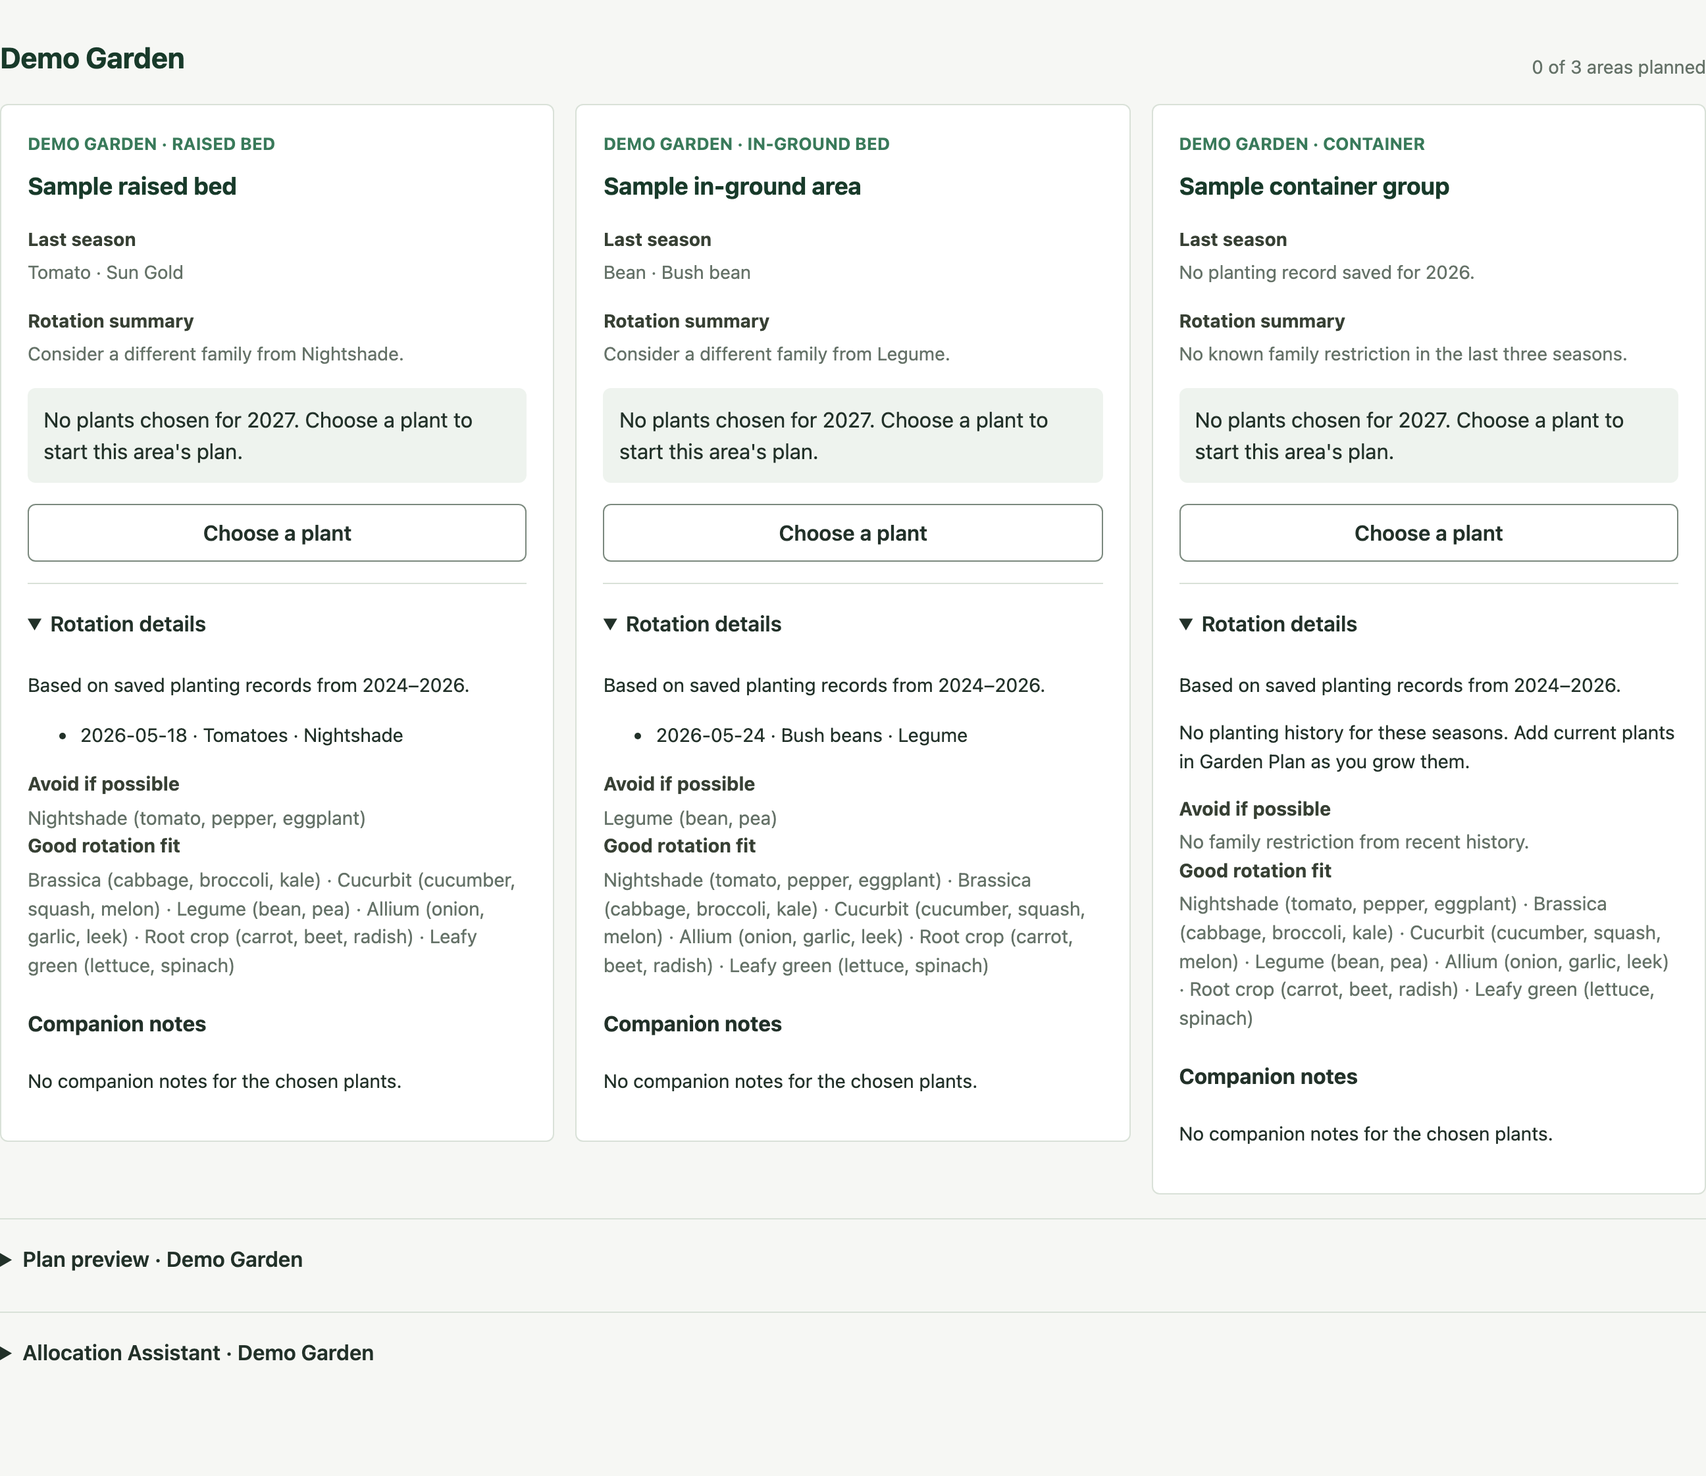
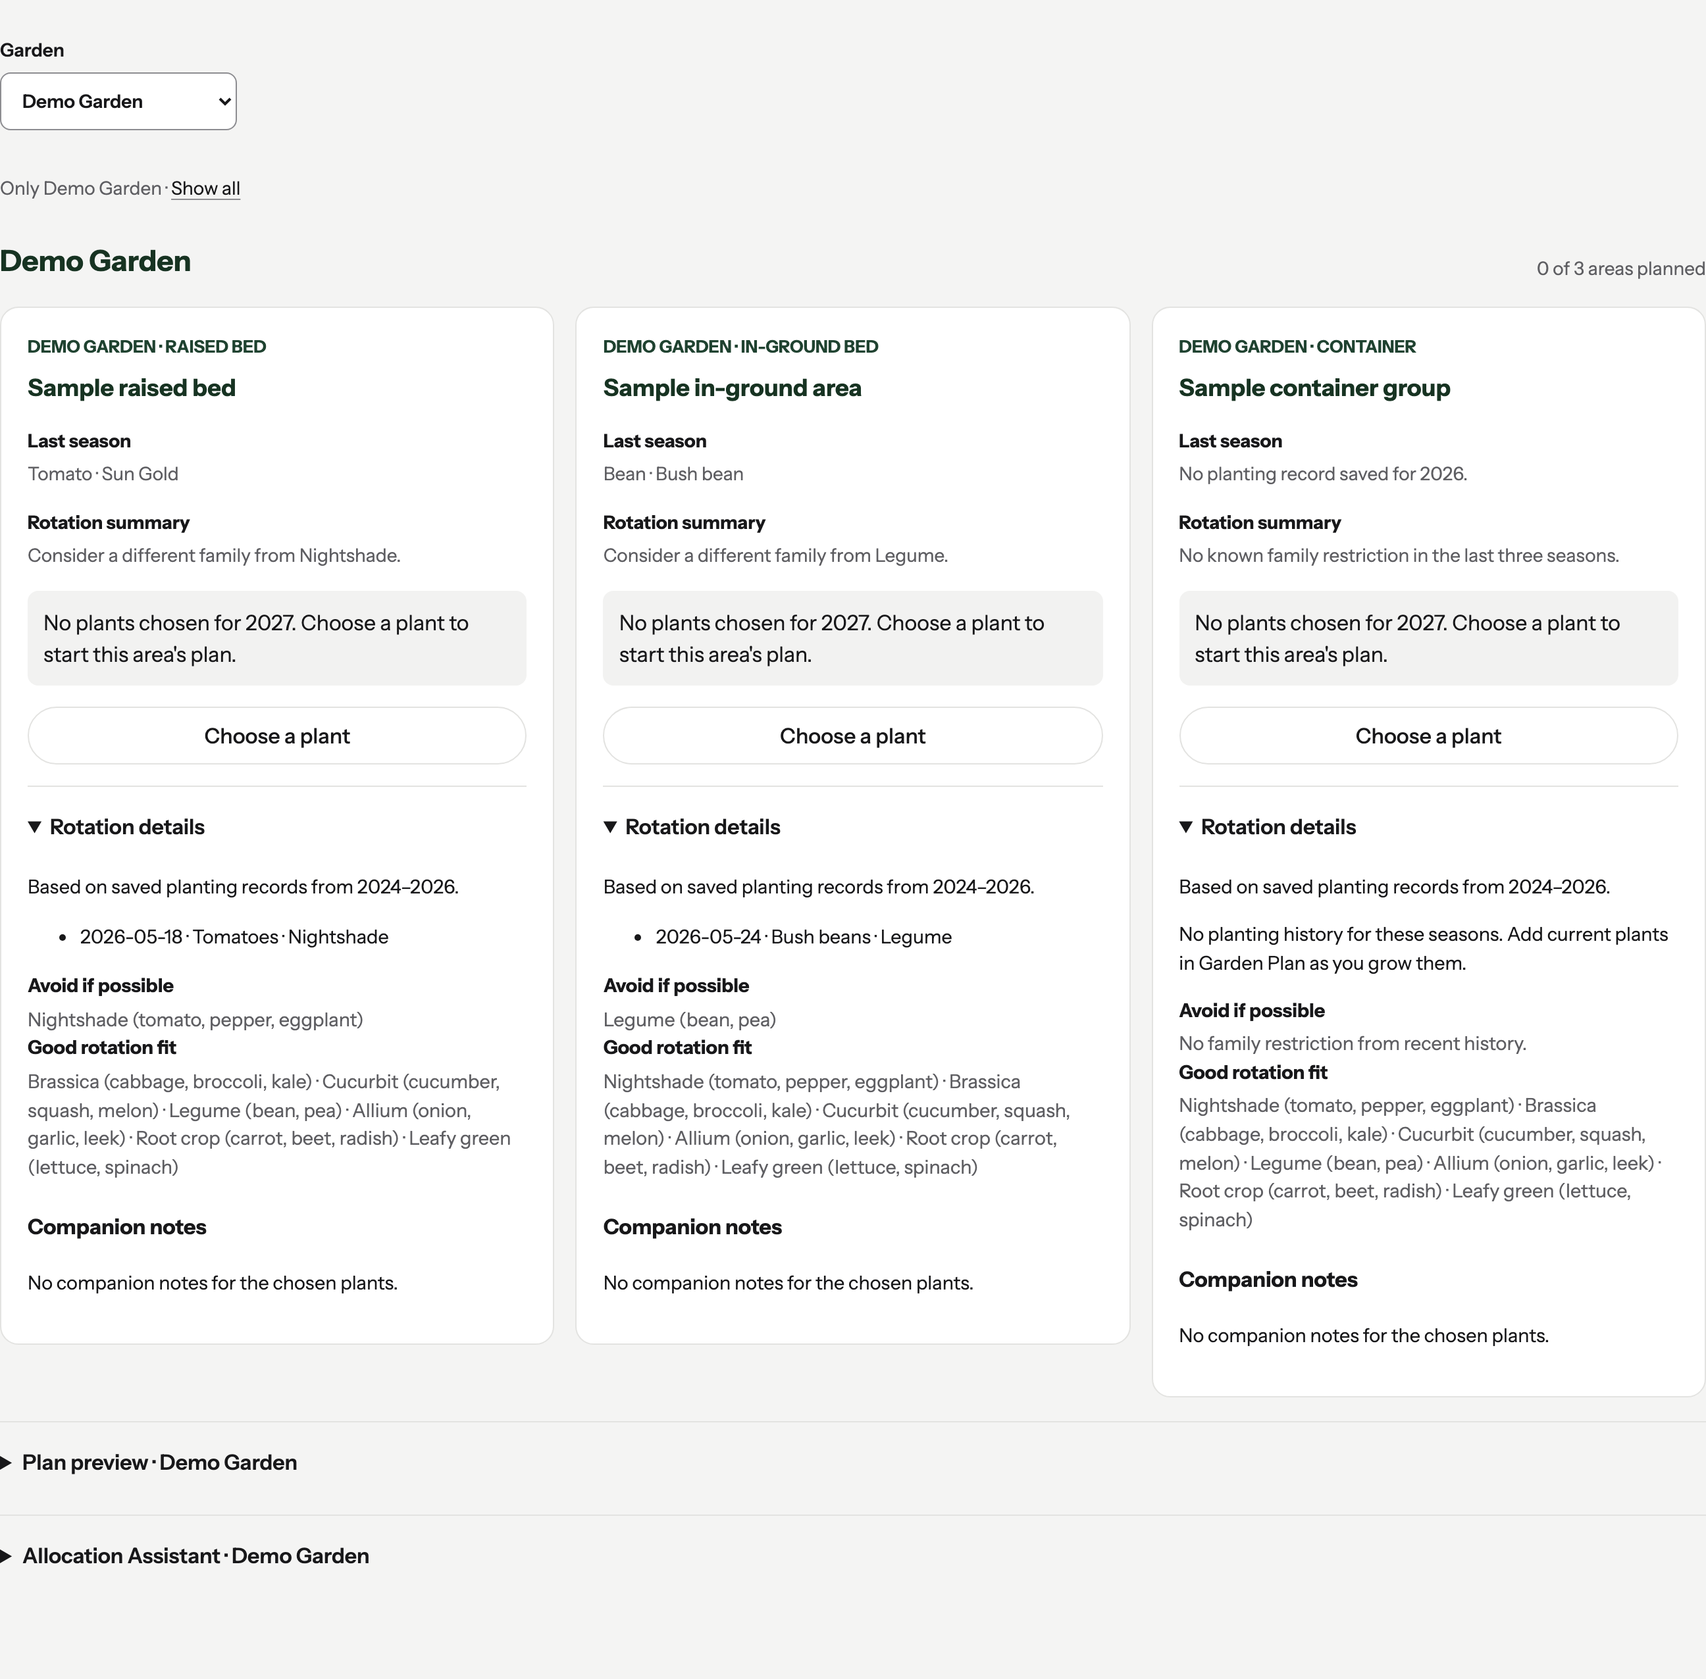
test: accept the site redesign at four sizes and finish its docs
Adds a landing-to-note browser journey at 1440, 768, and 390 px and at
200% zoom, refreshes the README screenshots, and marks ADR-0073 as
implemented (S1-S7) with the superseded records in the decision index.

diff --git a/e2e/site-journey.spec.ts b/e2e/site-journey.spec.ts
@@ -1,0 +1,85 @@
+import { expect, test, type Page, type TestInfo } from "@playwright/test";
+import { todayDate } from "../src/lib/gardenWorkspace";
+import { workspaceHome } from "./workspace";
+
+/**
+ * ADR-0073 S7: the visitor journey from the landing page into the app, at three widths and
+ * at a simulated 200% browser zoom (a 1440 × 900 window at zoom 200% lays out at 720 × 450 CSS
+ * pixels with a device pixel ratio of 2). Every step is screenshotted into this test's output
+ * folder under test-results/ and checked for horizontal scroll.
+ */
+const sizes = [
+  { name: "1440", width: 1440, height: 900, scale: 1 },
+  { name: "768", width: 768, height: 1024, scale: 1 },
+  { name: "390", width: 390, height: 844, scale: 1 },
+  { name: "zoom-200", width: 720, height: 450, scale: 2 },
+];
+
+async function step(page: Page, testInfo: TestInfo, size: string, name: string) {
+  expect(await page.evaluate(() => document.documentElement.scrollWidth - innerWidth), `${name} scrolls sideways at ${size}`).toBeLessThanOrEqual(1);
+  await page.screenshot({ path: testInfo.outputPath(`${size}-${name}.png`) });
+}
+
+for (const size of sizes) {
+  test.describe(`at ${size.name}`, () => {
+    test.use({ viewport: { width: size.width, height: size.height }, deviceScaleFactor: size.scale });
+
+    test("a visitor goes from the landing page to the Garden Plan and records a note", async ({ page }, testInfo) => {
+      test.setTimeout(120_000);
+      // The Next.js development badge is not part of the product.
+      await page.addInitScript(() => {
+        addEventListener("DOMContentLoaded", () => {
+          const style = document.createElement("style");
+          style.textContent = "nextjs-portal { display: none !important; }";
+          document.head.append(style);
+        });
+      });
+      // Single-record note drafting with a mocked extraction; the workspace uses the isolated test backend.
+      await page.route("**/runtime-config", (route) => route.fulfill({ json: { portfolioDemo: false } }));
+      await page.route("**/ai/**", (route) => route.fulfill({ json: { kind: "completed", type: "watering", date: todayDate(), note: "Watered the raised bed", targetScope: "garden", reviewNotes: [] } }));
+
+      // 1. Landing page.
+      await page.goto("/");
+      await expect(page.getByRole("heading", { level: 1 })).toBeVisible();
+      await step(page, testInfo, size.name, "1-landing");
+
+      // 2. Into the app.
+      await page.getByRole("link", { name: "Open the app" }).click();
+      await expect(page).toHaveURL(workspaceHome);
+      await expect(page.getByRole("heading", { name: "Gardens", level: 1 })).toBeVisible();
+      await page.getByRole("button", { name: "Load demo garden" }).click();
+      await expect(page.getByRole("link", { name: "Open Demo Garden" })).toBeVisible();
+      await expect(page.getByText("All changes saved", { exact: true }).first()).toBeAttached();
+      await step(page, testInfo, size.name, "2-gardens");
+
+      // 3. The Garden Plan canvas.
+      await page.getByRole("link", { name: "Open Demo Garden" }).click();
+      await expect(page).toHaveURL(/\/gardens\/demo-garden\/plan$/);
+      await expect(page.getByTestId("garden-plan-canvas")).toBeVisible();
+      await expect(page.getByTestId("garden-plan-canvas")).toHaveAttribute("data-zooming", "false");
+      await step(page, testInfo, size.name, "3-plan");
+
+      // 4. "+ Note" from the header, review the draft, and save it.
+      await page.getByRole("banner").getByRole("button", { name: "Note", exact: true }).click();
+      const dialog = page.getByRole("dialog", { name: "Garden Note" });
+      await expect(dialog).toBeVisible();
+      await dialog.getByLabel("Care note").fill("Watered the raised bed");
+      await dialog.getByLabel("Garden", { exact: true }).selectOption("demo-garden");
+      await step(page, testInfo, size.name, "4-note");
+      await dialog.getByRole("button", { name: "Create draft", exact: true }).click();
+      await expect(dialog.getByRole("heading", { name: "AI extracted draft" })).toBeVisible();
+      await step(page, testInfo, size.name, "5-draft");
+      await dialog.getByRole("button", { name: "Save to Care History" }).last().click();
+      await expect(dialog.getByText("Saved 1 record", { exact: true })).toBeVisible();
+      await expect(page.getByText("All changes saved", { exact: true }).first()).toBeAttached();
+      await step(page, testInfo, size.name, "6-saved");
+
+      // The record reached the backend.
+      const id = await page.evaluate(() => localStorage.getItem("sun-aware-garden-planner:server-workspace-id:v1"));
+      await expect.poll(async () => {
+        const workspace = await (await page.request.get(`http://127.0.0.1:8100/workspaces/${id}`)).json();
+        return workspace.gardens[0].careEvents.some((event: { note: string }) => event.note === "Watered the raised bed");
+      }).toBe(true);
+    });
+  });
+}

diff --git a/docs/decisions/README.md b/docs/decisions/README.md
@@ -105,17 +105,17 @@ changes, mark the old record as superseded and add a new record.
 | [ADR-0060](0060-offer-assisted-care-note-drafting-in-the-portfolio-demo.md) | Offer assisted care-note drafting in the portfolio demo | Accepted |
 | [ADR-0061](0061-prioritize-global-garden-notes-and-consistent-workflows.md) | Prioritize global AI garden notes, clear workspace scopes, and consistent feedback | Accepted for product direction; implementation pending |
 | [ADR-0062](0062-preserve-planting-area-editor-drafts.md) | Preserve planting-area property and plant-editor drafts | Accepted; amended for Garden Plan by ADR-0072 (G5) |
-| [ADR-0063](0063-use-workspace-routes-and-shared-session-state.md) | Use workspace routes and shared session state | Accepted; home route moved to `/gardens` by ADR-0073 (S1); garden subnavigation and "Back to gardens" superseded by ADR-0073 (S2); `/gardens/[gardenId]/care` and `/gardens/[gardenId]/season` redirect to the filtered `/care` and `/season` by ADR-0073 (S3) |
+| [ADR-0063](0063-use-workspace-routes-and-shared-session-state.md) | Use workspace routes and shared session state | Accepted; superseded in part by ADR-0073: the home route moved to `/gardens` (S1), the garden subnavigation and "Back to gardens" replaced by the L1 header and a breadcrumb (S2), and `/gardens/[gardenId]/care` and `/gardens/[gardenId]/season` redirect to the filtered `/care` and `/season` (S3) |
 | [ADR-0064](0064-separate-workspace-save-status-and-explicit-retries.md) | Separate workspace save status and explicit retries | Accepted |
 | [ADR-0065](0065-fit-metric-canvases-to-their-containers.md) | Fit metric canvases to their containers | Accepted |
 | [ADR-0066](0066-adapt-area-editing-to-available-space.md) | Adapt area editing to available space | Superseded in part by ADR-0072 (G3) |
-| [ADR-0067](0067-project-care-across-locations-with-explicit-ownership.md) | Project Care across locations with explicit ownership | Accepted; the garden Care page and its "Applies to all gardens" section superseded by ADR-0073 (S3): a garden's care is global Care filtered to that location |
+| [ADR-0067](0067-project-care-across-locations-with-explicit-ownership.md) | Project Care across locations with explicit ownership | Accepted; superseded in part by ADR-0073 (S3): the garden Care page and its "Applies to all gardens" section are replaced, and a garden's care is global Care filtered to that location |
 | [ADR-0068](0068-extract-bounded-workspace-care-note-batches.md) | Extract bounded workspace care-note batches | Accepted; real-model evaluation pending |
 | [ADR-0069](0069-open-garden-notes-in-place-from-overview.md) | Open Garden Notes in place from Overview | Accepted; entry superseded in part by ADR-0073 (S2): the header "+ Note" opens the dialog from any app page |
 | [ADR-0070](0070-preview-and-position-planting-areas-on-the-plan.md) | Preview and position planting areas on the plan | Superseded in part by ADR-0072 (G2, G3, G4) |
 | [ADR-0071](0071-recover-missing-workspaces-from-browser-copies.md) | Recover missing workspaces from browser copies | Accepted |
 | [ADR-0072](0072-use-a-single-plan-canvas-with-guided-setup.md) | Use a single plan canvas with guided setup | Accepted; implemented (G1–G7); the G1 presentation and the wide side column superseded in part by ADR-0073 (S4): a pale planting chart, and from 900 px the toolbar, zoom, legend, and area panel float over a full-width canvas |
-| [ADR-0073](0073-separate-the-landing-page-and-use-a-textured-deep-green-look.md) | Separate the landing page from the app and use a textured deep-green look | Accepted; S1–S6 implemented, S7 pending |
+| [ADR-0073](0073-separate-the-landing-page-and-use-a-textured-deep-green-look.md) | Separate the landing page from the app and use a textured deep-green look | Accepted; implemented (S1–S7); the landing showcases (S6b) are placeholders until their form is decided |
 
 ## Interview Use
 

diff --git a/docs/frontend-professionalization-progress.md b/docs/frontend-professionalization-progress.md
@@ -1030,3 +1030,33 @@ Phase G7 closes the single-canvas plan ([ADR-0072](decisions/0072-use-a-single-p
   line. `season-hierarchy.spec.ts` checks it at 390 and 1440 px.
 - ADR-0048 is marked as superseded in part (garden details apply without
   Save), and ADR-0052's Garden Plan amendment now covers G6.
+
+## Site redesign: landing page and app look (S1–S7)
+
+The site redesign ([ADR-0073](decisions/0073-separate-the-landing-page-and-use-a-textured-deep-green-look.md), [plan](site-redesign-plan.md)) splits the landing page from the app and restyles both.
+
+- S1 moves the app to `/gardens` under the `(app)` route group and adds a landing page at `/` under `(marketing)`.
+- S2 gives the app a textured deep-green header with the L1 modules, a breadcrumb with an "All gardens" button below L1, and a "+ Note" button that opens the Garden Note dialog from any app page.
+- S3 links a garden to its care and season plans as filtered L1 pages and redirects the old garden Care and Season routes.
+- S4 restyles the Garden Plan as a pale planting chart with crop-family colors and floating glass overlays from 900 px.
+- S5 restyles the remaining app pages with hue-free neutrals and the content green `#1F4230`; `e2e/app-pages-review.spec.ts` checks every L1 page against the allowed colors.
+- S6 builds the landing page: a WebGL2 hero and footer from real leaf photos, still-image fallbacks, and placeholders for the two feature showcases.
+
+## S7: Site redesign browser acceptance and documentation (2026-11-15)
+
+- `e2e/site-journey.spec.ts` runs one visitor journey at 1440, 768, and 390 px,
+  and at 720 × 450 px with device scale 2 (a 1440 × 900 window at 200% zoom).
+  The journey opens the landing page, enters the app with "Open the app",
+  loads the demo garden, opens the Garden Plan canvas, records one note with
+  the header "+ Note", saves it to Care History, and confirms that the record
+  reached the backend. The AI extraction is mocked. Each step keeps a viewport
+  screenshot in the test output and checks that the page does not scroll
+  sideways.
+- The README screenshots are regenerated with the new look. The README states
+  that `/` is the landing page and `/gardens` is the app locally, and the
+  hosted demo keeps its "Open app" instructions.
+- ADR-0073 is Accepted and implemented (S1–S7). The decision index marks
+  ADR-0051, 0063, 0067, 0069, and 0072 as superseded in part, and ADR-0030 and
+  0049 as amended for canvas colors.
+- Limitations: the landing showcases (S6b) remain placeholders; Lighthouse
+  needs the owner's run or a deployed build; the hosted demo is not redeployed.

diff --git a/README.md b/README.md
@@ -12,7 +12,7 @@ plan the next season, and ask source-grounded plant questions.
 
 **Garden plan** — one canvas on a real metric grid. Each area type button drops a standard-size bed; areas drag and resize in place, opening an area zooms the same canvas to place plants, and every edit saves at once with Undo and Redo. A new garden walks through four guided steps: garden size, planting areas, plants, and Ready.
 
-<img width="1000" alt="Garden Plan with three planting areas on a metric grid, area type buttons, Undo and Redo, and the planting-area list" src="docs/screenshots/garden-plan.png" />
+<img width="1000" alt="Garden Plan as a pale planting chart: three planting areas on a metric grid, a floating toolbar with area type buttons, Undo and Redo, a crop-family legend, and the planting-area list" src="docs/screenshots/garden-plan.png" />
 
 **Next Season** — area plans first, with expandable rotation history and companion sources.
 
@@ -47,7 +47,7 @@ plan the next season, and ask source-grounded plant questions.
 
 ## Five-Minute Demo
 
-The frontend updates described here are local changes and have not been deployed to the hosted demo.
+The frontend updates described here are local changes and have not been deployed to the hosted demo. Locally, `/` is the landing page and `/gardens` is the app.
 
 ### Hosted demo (fastest)
 
@@ -67,7 +67,7 @@ The API sleeps on the free tier, so the first request can take about a minute.
 4. Select the **Demo Garden** card. Open an area to zoom the plan into it and
    place plants, drag an area to move it, and use **Undo** to reverse a change.
    **Add garden** starts the four-step guided setup on the same canvas.
-5. Return to the dashboard and open **Next Season**. Choose plants for each area. Expand **Rotation details** for history and companion sources,
+5. Return to **Gardens** and open **Next Season**. Choose plants for each area. Expand **Rotation details** for history and companion sources,
    or **Allocation Assistant** to review an AI draft or the recorded demo run.
 6. Open **Care** to create a task or record a completed care event.
 7. After completing [Enable local AI features](#enable-local-ai-features), open

diff --git a/docs/site-redesign-plan.md b/docs/site-redesign-plan.md
@@ -1,7 +1,7 @@
 # 官网与 App 重新设计：实施计划
 
 - 日期：2026-11-14（America/Toronto）
-- 状态：方向与分阶段计划已确认（[ADR-0073](decisions/0073-separate-the-landing-page-and-use-a-textured-deep-green-look.md)）；第 8 节记录确认结果。官网功能展示的形式（S6b）暂不决定。
+- 状态：S1–S7 已完成，S6b 待定。方向与分阶段计划已确认（[ADR-0073](decisions/0073-separate-the-landing-page-and-use-a-textured-deep-green-look.md)）；第 8 节记录确认结果。官网功能展示的形式（S6b）暂不决定。
 - 依据：
   - 用户确认的两份原型：[官网第 4 版](https://claude.ai/artifact/9C4EYxPXFYGcg3DGzonWwn)、[App 与画布第 8 版](https://claude.ai/artifact/41FXSnHJFAVvBBVppYA5iH)
   - 2026-11-14 的讨论记录
@@ -410,6 +410,12 @@
   - 为什么选真实照片加着色器，而不是程序生成纹理
   - 为什么整页深绿被否决
 - 更新 `frontend-professionalization-progress.md`。
+
+> 实施说明（2026-11-15 完成）：
+> - 新增 `e2e/site-journey.spec.ts`：在 1440、768、390px 和模拟 200% 缩放（720 × 450，像素比 2）下走一遍：官网 → “Open the app” → Gardens 载入演示花园 → Garden Plan 画布 → 页头 “+ Note” 写一条记录、生成草稿、存到 Care History，并向测试后端确认记录已保存。AI 提取用模拟响应。每一步在测试输出目录留截图，并检查没有横向滚动。
+> - 用 `readme-screenshots.spec.ts` 重新生成三张 README 截图；README 写明本地 `/` 是官网、`/gardens` 是 App，演示站说明保持 “Open app”（演示站还没重新部署）。
+> - ADR-0073 改为已实施（S1–S7，S6b 待定）；索引里 ADR-0051、0063、0067、0069、0072 统一写成部分被替代，ADR-0030、0049 写成对画布颜色部分修订。
+> - `docs/interview-stories.md` 新增故事 21（整体重新设计，这个文件只在本地，不进 Git）；`frontend-professionalization-progress.md` 补了 S1–S7 的记录。
 
 ## 6. 每阶段统一的完成标准
 

diff --git a/docs/decisions/0073-separate-the-landing-page-and-use-a-textured-deep-green-look.md b/docs/decisions/0073-separate-the-landing-page-and-use-a-textured-deep-green-look.md
@@ -1,14 +1,14 @@
 # ADR-0073: Separate the Landing Page from the App and Use a Textured Deep-Green Look
 
-- Status: Accepted on 2026-11-14; S1 to S6 implemented (S4 to S6 on 2026-11-15), S7 pending. The form of the landing showcases (S6b) is undecided until the app is final.
+- Status: Accepted on 2026-11-14 and implemented: S1 to S3 on 2026-11-14, S4 to S7 on 2026-11-15. The landing showcases (S6b) remain placeholders; their form is undecided until the app is final.
 - Date: 2026-11-14
-- Supersedes in part, as each phase lands:
+- Supersedes in part (all marked in the decision index):
   - [ADR-0051](0051-prioritize-daily-garden-work-on-the-dashboard.md): the dashboard card groups.
   - [ADR-0063](0063-use-workspace-routes-and-shared-session-state.md): the route list, the garden subnavigation, and "Back to gardens".
   - [ADR-0067](0067-project-care-across-locations-with-explicit-ownership.md): the garden Care page and its "Applies to all gardens" section, in phase S3.
   - [ADR-0069](0069-open-garden-notes-in-place-from-overview.md): the note entry point.
   - [ADR-0072](0072-use-a-single-plan-canvas-with-guided-setup.md): the G1 presentation and the wide-layout side column.
-- Amends for canvas colors, in phase S4: [ADR-0030](0030-use-context-aware-plant-colors.md) and [ADR-0049](0049-use-visually-distinct-automatic-plant-colors.md).
+- Amends for canvas colors (phase S4): [ADR-0030](0030-use-context-aware-plant-colors.md) and [ADR-0049](0049-use-visually-distinct-automatic-plant-colors.md).
 - Related:
   - [ADR-0025](0025-use-three-season-crop-rotation-warnings.md): crop families.
   - [ADR-0040](0040-use-vercel-render-and-supabase-for-the-portfolio-demo.md): the demo deployment.
